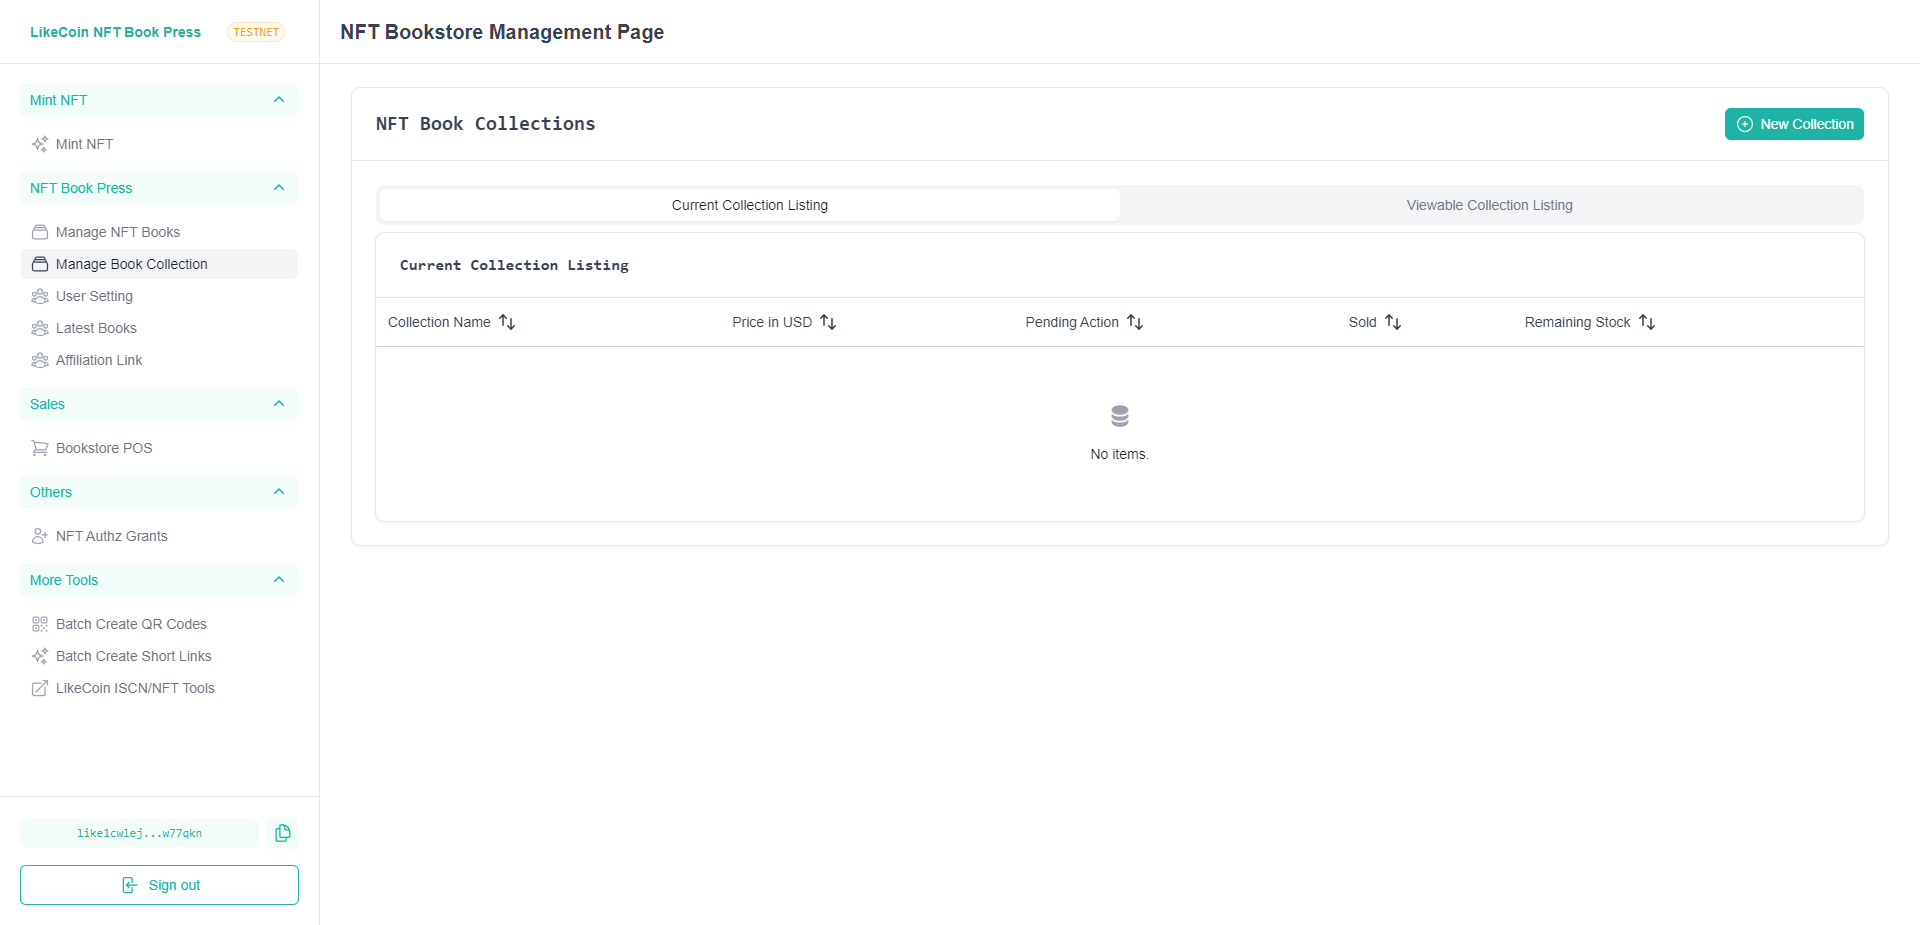
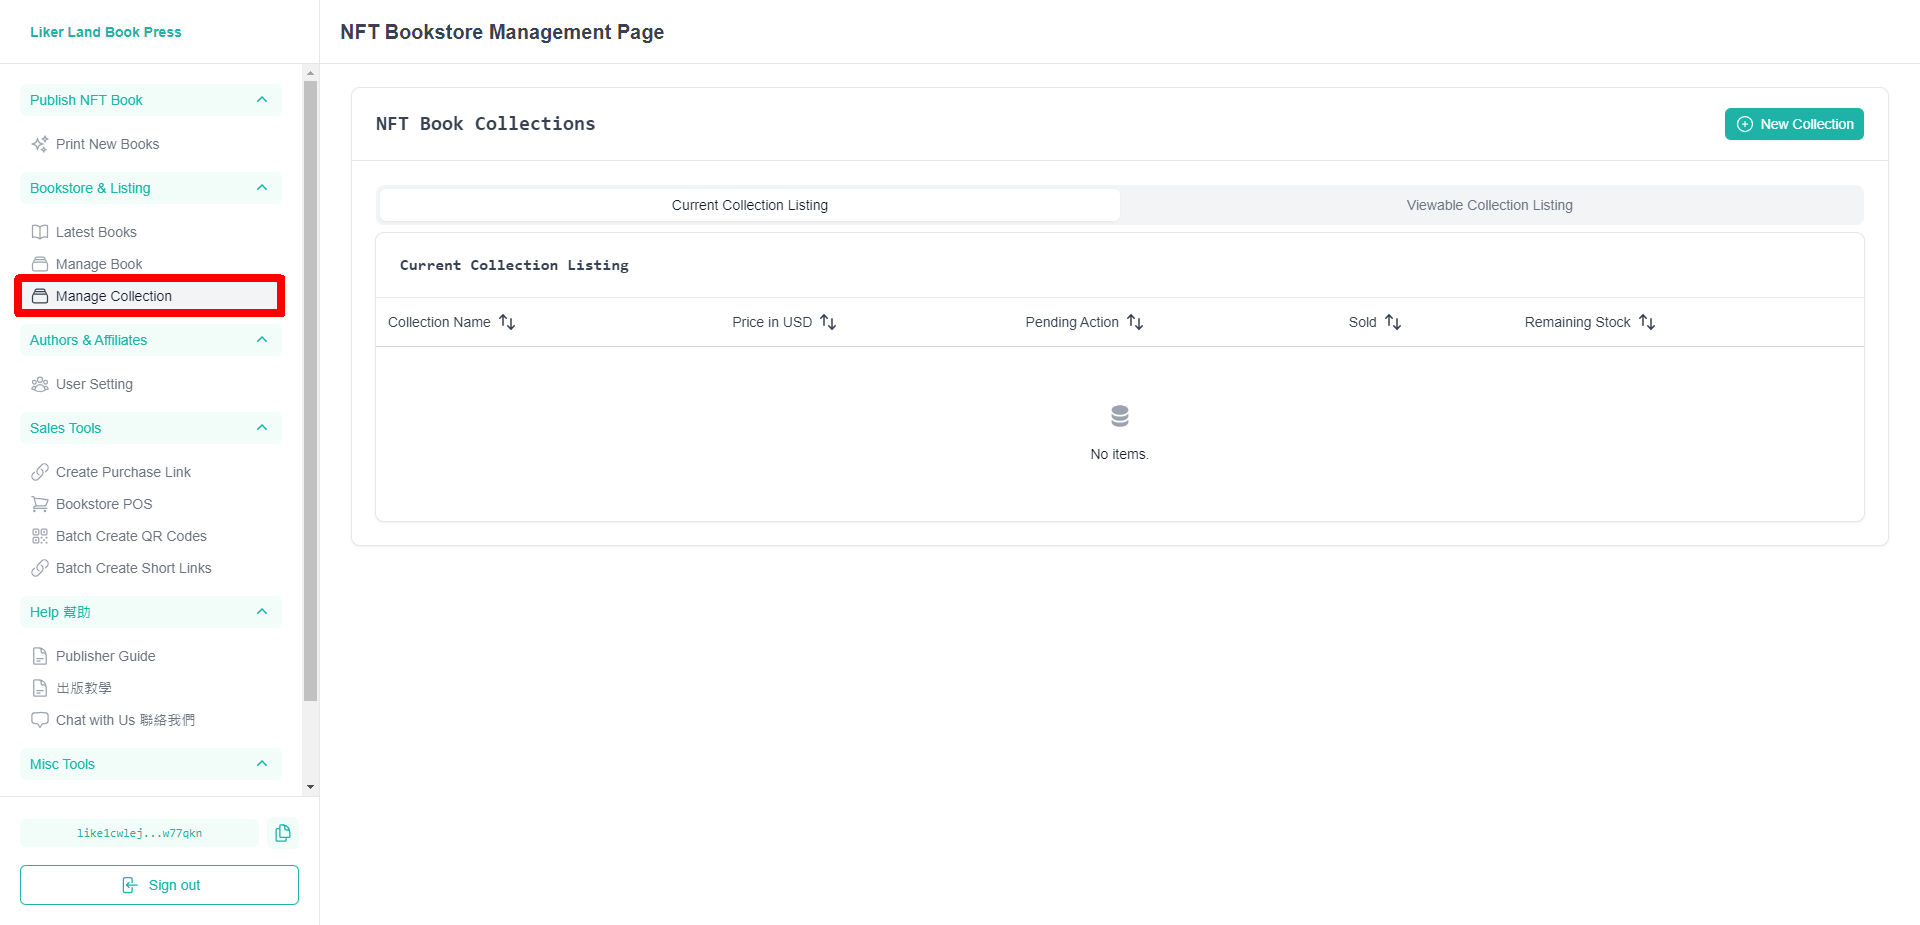
GITBOOK-4729: Stripe Connect Status

diff --git a/depub/nft-book-press/user/README.md b/depub/nft-book-press/user/README.md
@@ -4,7 +4,7 @@ description: Add or modify user settings and join the Affiliation Program
 
 # User Setting
 
-Go to the [LikeCoin NFT Book Press](https://likecoin.github.io/nft-book-press/) website, click "Sign in" in the bottom left corner to connect to your wallet, the click "[User Setting](https://likecoin.github.io/nft-book-press/nft-book-store/user)".
+Go to the [Liker Land Book Press](https://publish.liker.land/) website, click "Sign in" in the bottom left corner to connect to your wallet, the click "[User Setting](https://publish.liker.land/nft-book-store/user)".
 
 If the Stripe account is not set up, it will display “No.” It is recommended to complete the Book Affiliation Program and Stripe Connect setup one by one to participate in the affiliate program and receive book sales payments.
 

diff --git a/depub/nft-book-press/user/stripe-connect-status.md b/depub/nft-book-press/user/stripe-connect-status.md
@@ -1,6 +1,6 @@
 # Stripe Connect Status
 
-Go to the [LikeCoin NFT Book Press](https://likecoin.github.io/nft-book-press/) website, click "Sign in" in the bottom left corner to connect to your wallet, the click "[User Setting](https://likecoin.github.io/nft-book-press/nft-book-store/user)".
+Go to the [Liker Land Book Press](https://publish.liker.land/) website, click "Sign in" in the bottom left corner to connect to your wallet, the click "[User Setting](https://publish.liker.land/nft-book-store/user)".
 
 <figure><img src="../../../.gitbook/assets/Manage Stripe Account 1.png" alt=""><figcaption><p>User Setting</p></figcaption></figure>
 
